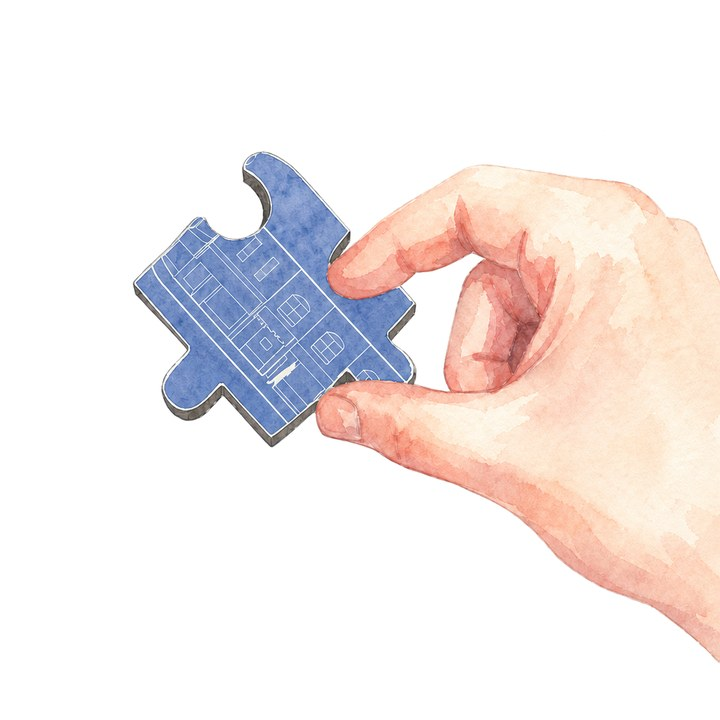
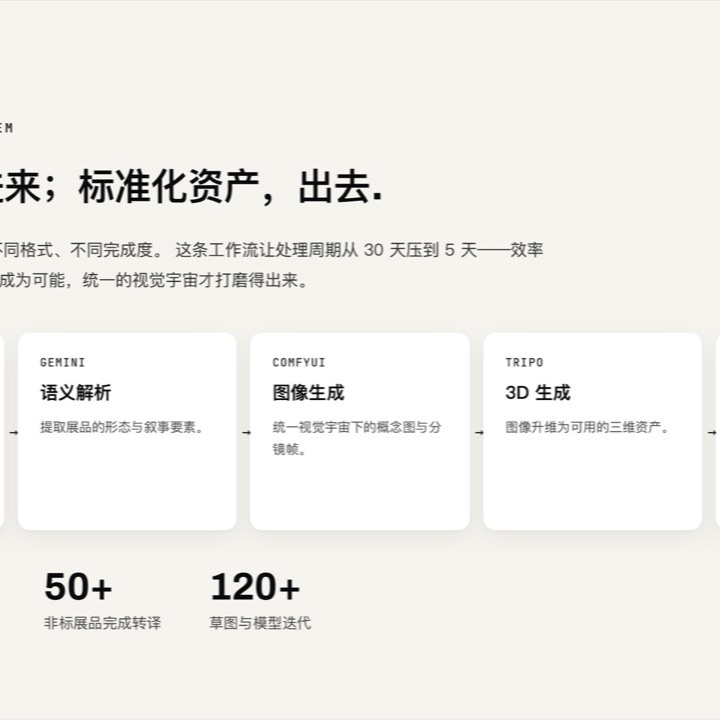
封面纠正（素材=顶层「Website 封面页/正图」）：Meco=透明水彩拼图 PNG(保留通道) · UABB=Multimodal Workflow 魔方 · Pears=手绘梨透明 PNG · uabb 揭示层还原占位 · json/立方体面路径同步

diff --git a/js/index-fx.js b/js/index-fx.js
@@ -21,7 +21,7 @@
 
   /* ── 1. 立方体 ── */
   var CUBE_FACES = [
-    'assets/project/pears/thumbnails/1.jpg',
+    'assets/project/pears/thumbnails/1.png',
     'assets/project/cowork/thumbnails/1.jpg',
     'assets/project/yijian/thumbnails/1.jpg',
     'assets/project/uabb/thumbnails/1.jpg',
